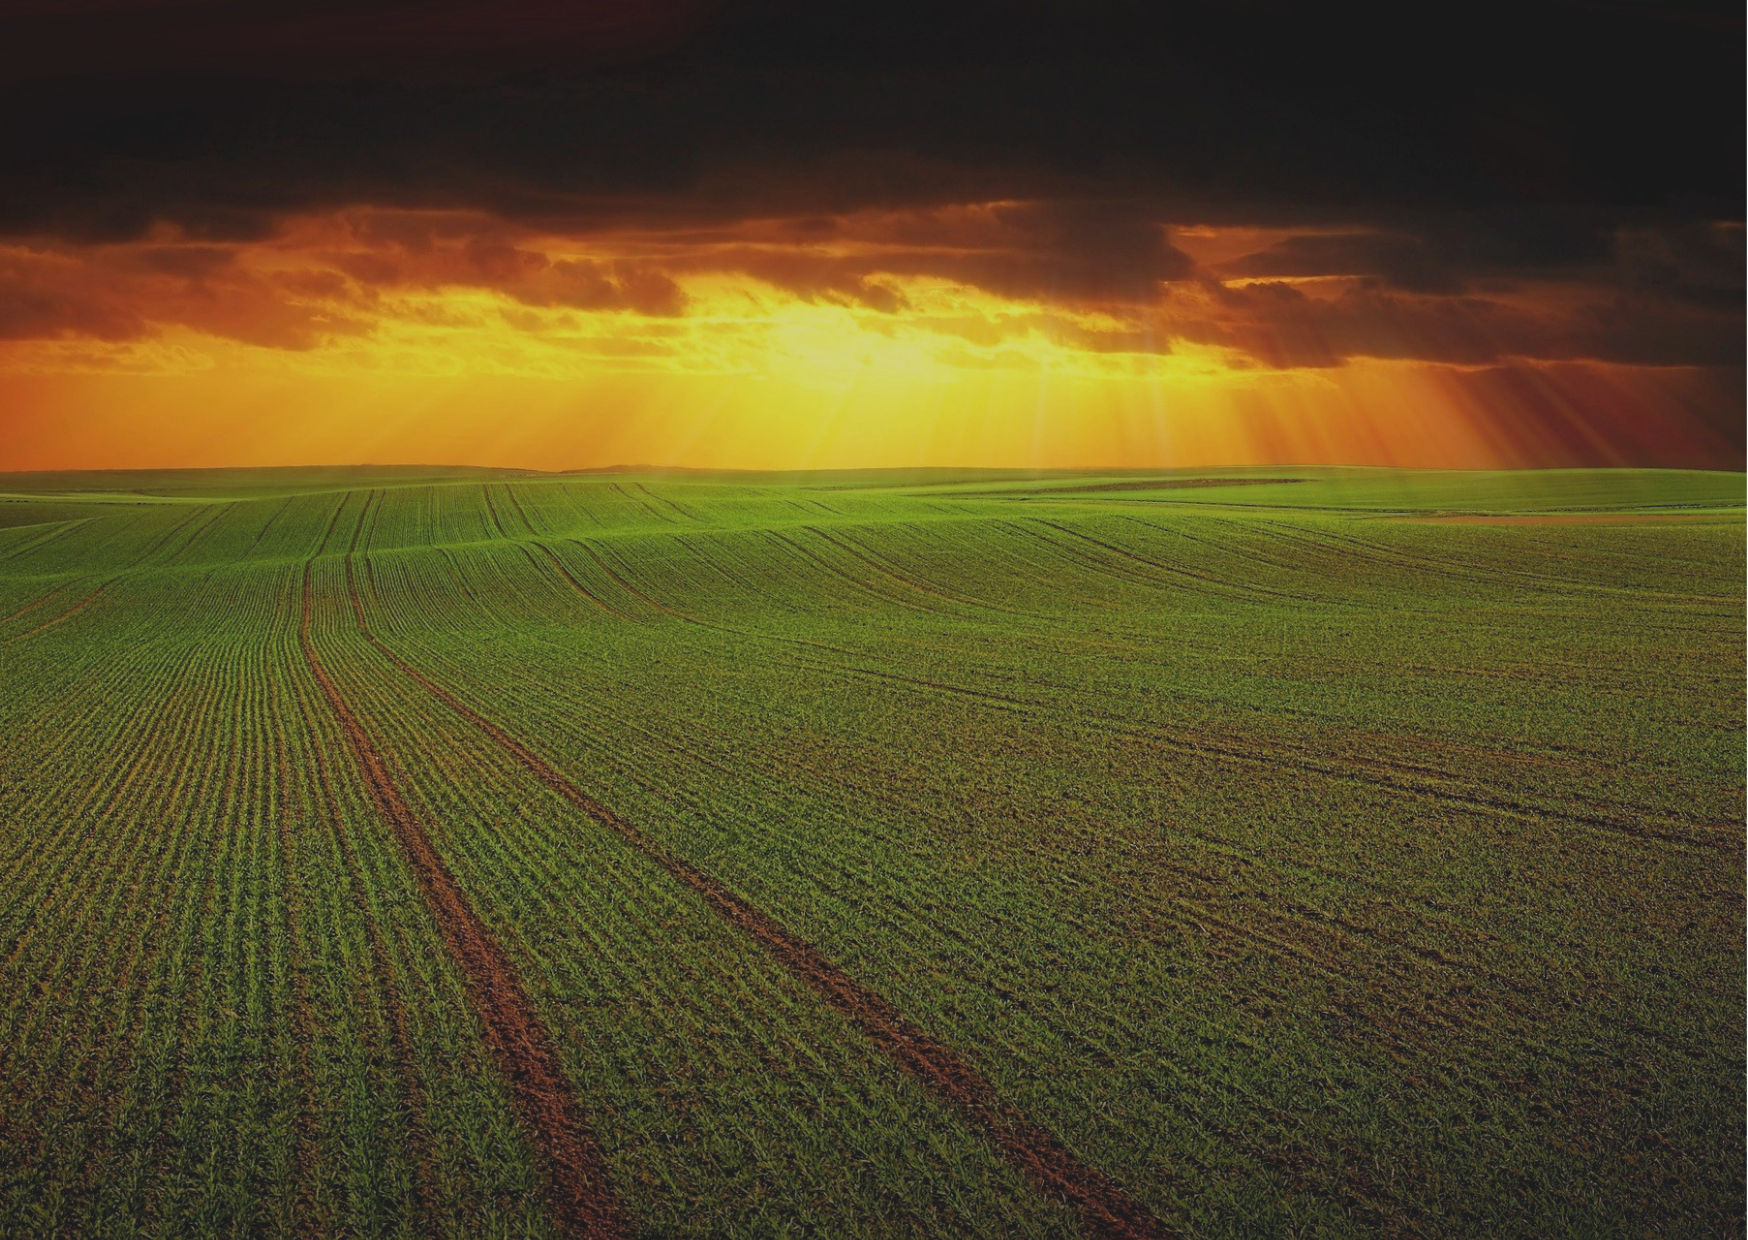
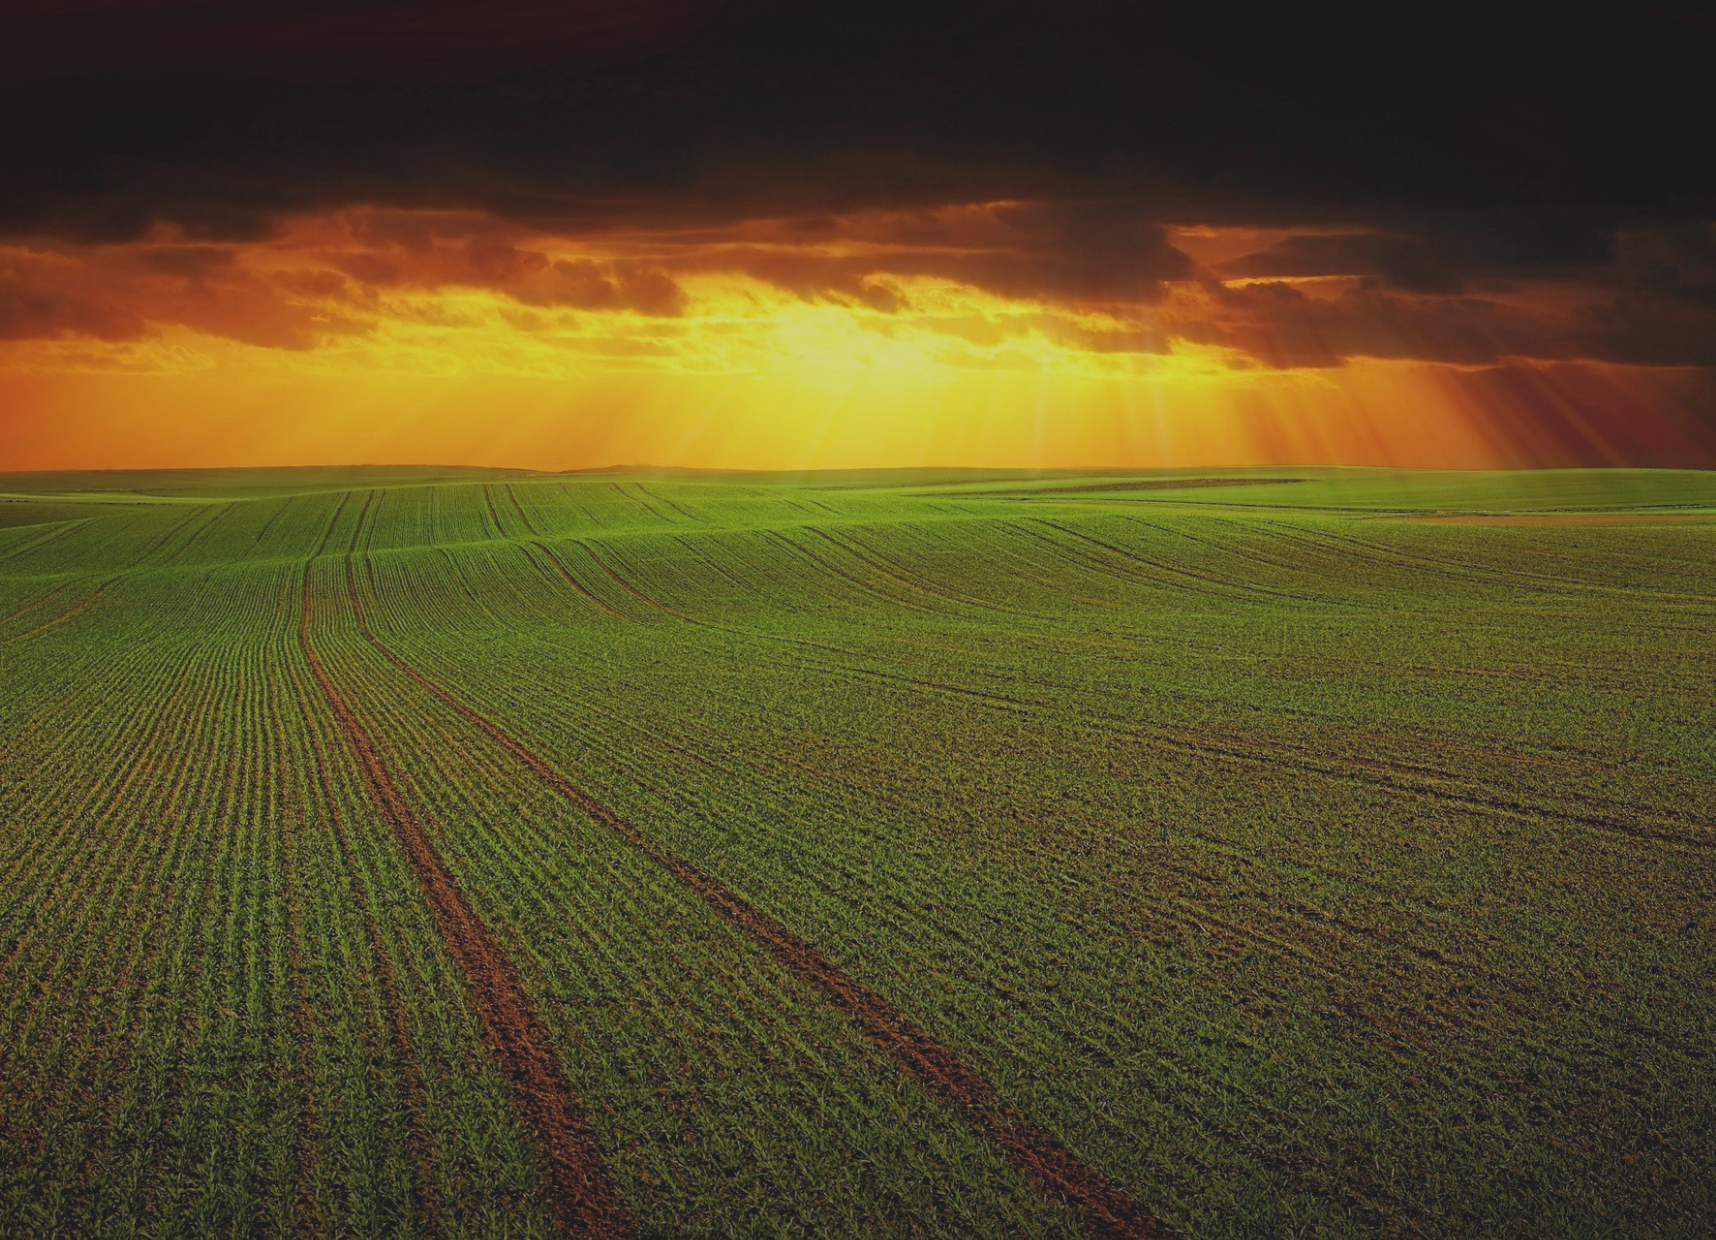
Update Menu

diff --git a/InvestSafra/TelaPrincipalWindow.xaml b/InvestSafra/TelaPrincipalWindow.xaml
@@ -9,18 +9,56 @@
         Title="TelaPrincipalWindow" Height="653" Width="890">
     <Grid>
         <Grid.Background>
-            <ImageBrush ImageSource="/Imagens/img_fundo.png"/>
+            <ImageBrush ImageSource="/Imagens/Img_Fundo.png"/>
         </Grid.Background>
 
-        <Grid.ColumnDefinitions>
-        </Grid.ColumnDefinitions>
+        <Grid VerticalAlignment="Top" Height="50" Background="#EFA82E">
 
-        <Grid.RowDefinitions>
-            <RowDefinition Height="70"/>
-            <RowDefinition Height="*"/>
-        </Grid.RowDefinitions>
+        </Grid>
+        <Grid Background="#EFA82E" HorizontalAlignment="Left" Width="150">
+            <StackPanel>
+                <Grid Height="150" Background="#EFA82E">
 
-        <StackPanel Grid.Row="0" Orientation="Horizontal" HorizontalAlignment="Right" Margin="20 0" Cursor="Hand">
+                </Grid>
+                <ListView FontFamily="Century Gothic" FontSize="14" Foreground="Black" BorderBrush="Transparent" Background="Transparent">
+                    <ListViewItem Height="40">
+                        <StackPanel Orientation="Horizontal">
+                            <Image Source="Icons/home.png" Height="20" VerticalAlignment="Center"/>
+                            <TextBlock Margin="10 0 0 0" Text="Home"  VerticalAlignment="Center" FontWeight="Bold"/>
+                        </StackPanel>
+                    </ListViewItem>
+                    
+                    <ListViewItem Height="40">
+                        <StackPanel Orientation="Horizontal">
+                            <Image Source="Icons/contato.png" Height="20" VerticalAlignment="Center"/>
+                            <TextBlock Margin="10 0 0 0" Text="Contatos"  VerticalAlignment="Center" FontWeight="Bold"/>
+                        </StackPanel>
+                    </ListViewItem>
+
+                    <ListViewItem Height="40">
+                        <StackPanel Orientation="Horizontal">
+                            <Image Source="Icons/curiosidade.png" Height="20" VerticalAlignment="Center"/>
+                            <TextBlock Margin="10 0 0 0" Text="Curiosidades"  VerticalAlignment="Center" FontWeight="Bold"/>
+                        </StackPanel>
+                    </ListViewItem>
+
+                    <ListViewItem Height="40">
+                        <StackPanel Orientation="Horizontal">
+                            <Image Source="Icons/curiosidade.png" Height="20" VerticalAlignment="Center"/>
+                            <TextBlock Margin="10 0 0 0" Text="Curiosidades"  VerticalAlignment="Center" FontWeight="Bold"/>
+                        </StackPanel>
+                    </ListViewItem>
+
+
+
+                </ListView>
+            </StackPanel>
+        </Grid>
+
+
+    
+
+    <StackPanel Grid.Row="0" Orientation="Horizontal" HorizontalAlignment="Right" Margin="20 0" Cursor="Hand">
             <Button x:Name="btEntrar" Content="Entrar" BorderThickness="10" 
                     Background="#EFA82E" BorderBrush="#EFA82E" Foreground="Black" 
                     Click="btEntrar_Click" Cursor="Hand"/>

diff --git a/InvestSafra/TelaPrincipalWindow.xaml.cs b/InvestSafra/TelaPrincipalWindow.xaml.cs
@@ -40,5 +40,13 @@ namespace InvestSafra
 			Entrar form = new Entrar();
 			form.ShowDialog();
 		}
-	}
+
+        private void ListViewItem_Selected(object sender, RoutedEventArgs e)
+        {
+
+
+			Entrar form = new Entrar();
+			form.ShowDialog();
+		}
+    }
 }
